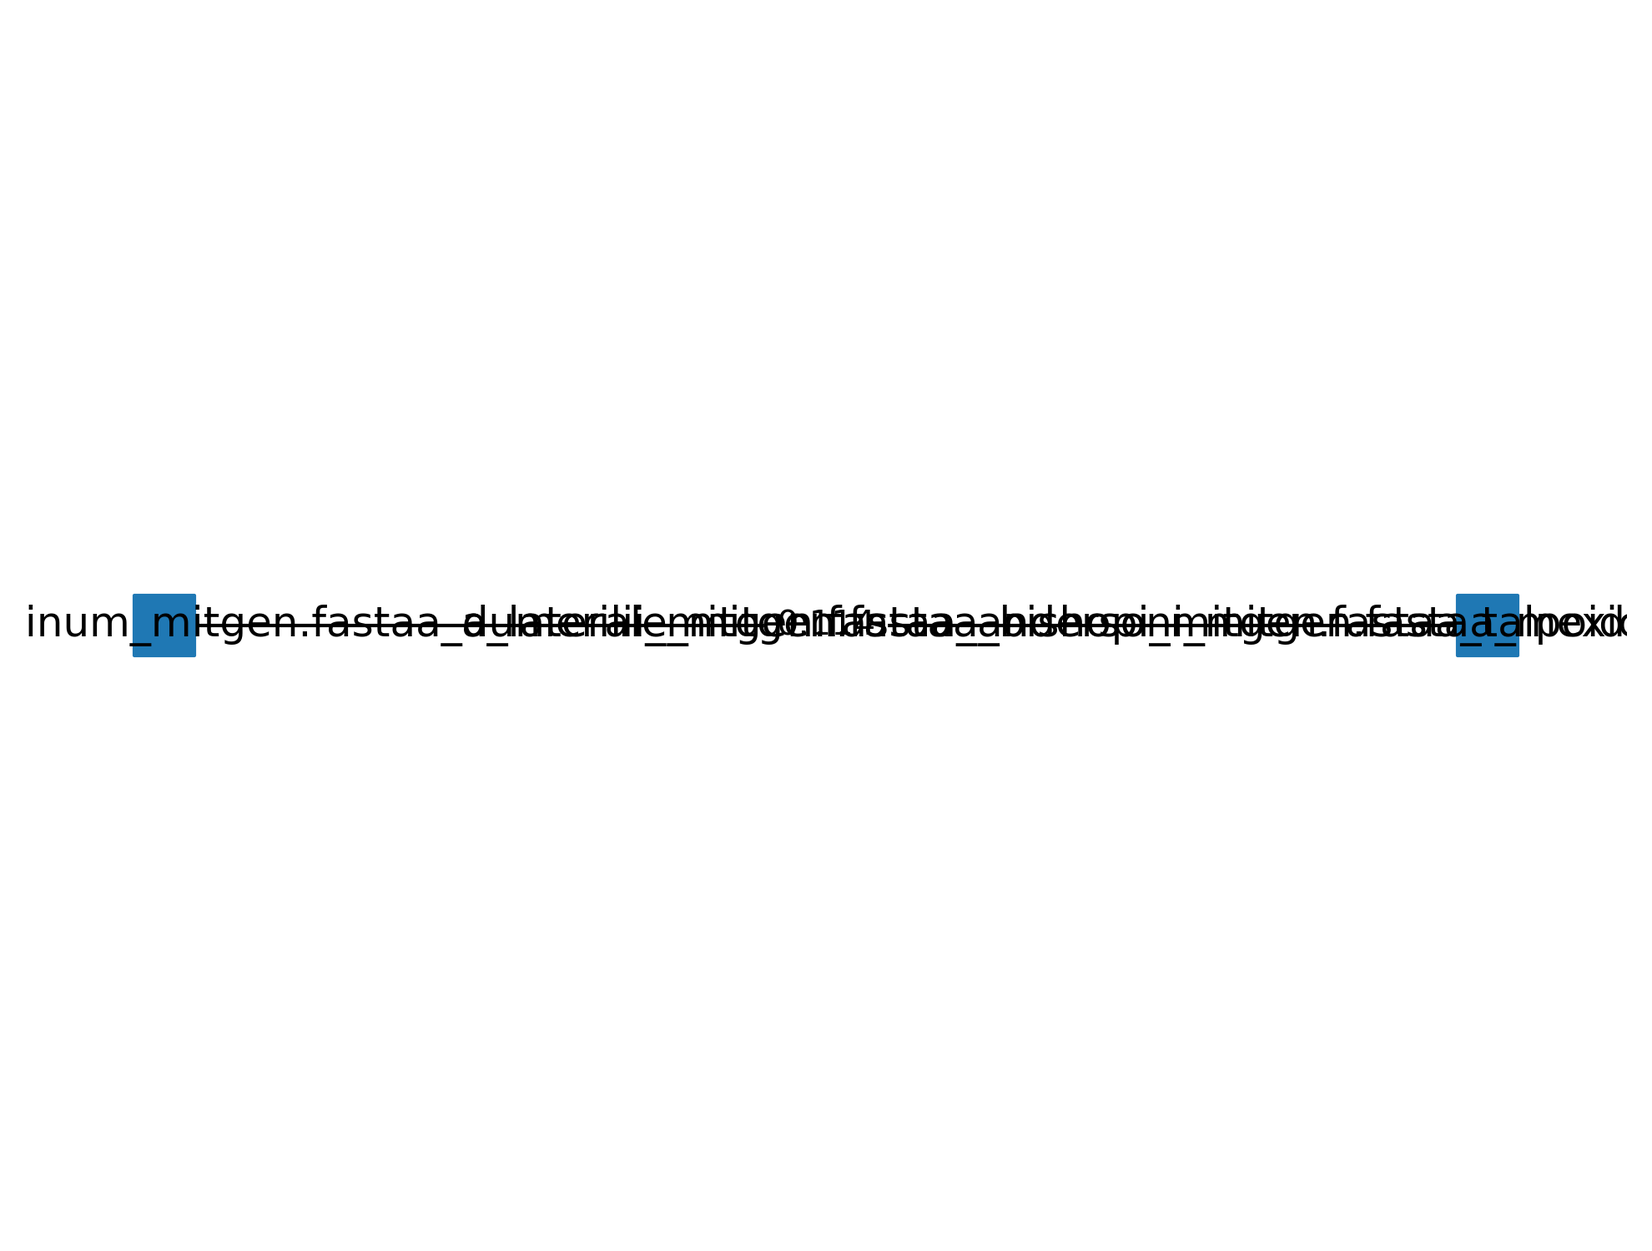
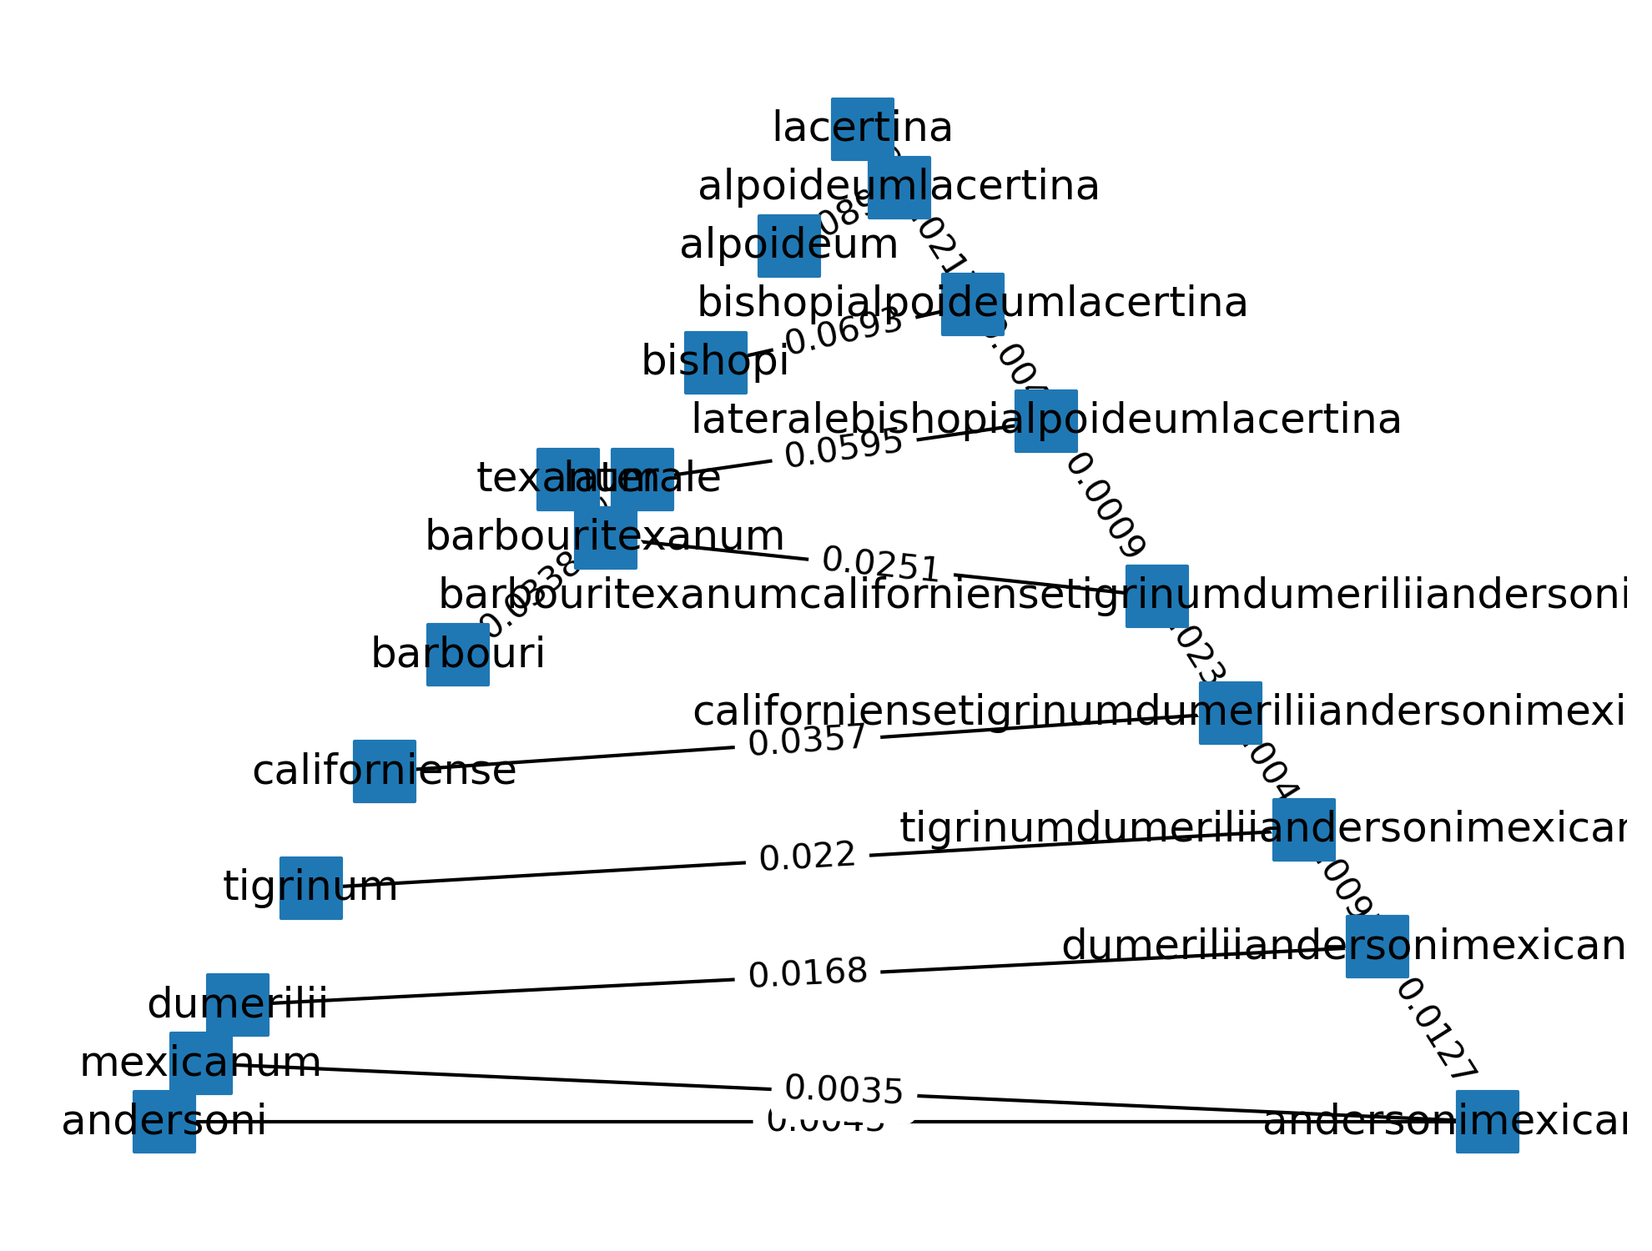
Corrección gráficas neighbor joining

diff --git a/src/graphs/p/nj/naive.tex b/src/graphs/p/nj/naive.tex
@@ -6,46 +6,46 @@
 \begin{figure}
   \begin{tikzpicture}
       \draw
-        (0.0:2) node (a_andersoni_mitgen.fasta){a_andersoni_mitgen.fasta}
-        (18.0:2) node (a_barbouri_mitgen.fasta){a_barbouri_mitgen.fasta}
-        (36.0:2) node (a_bishopi_mitgen.fasta){a_bishopi_mitgen.fasta}
-        (54.0:2) node (a_californiense_mitgen.fasta){a_californiense_mitgen.fasta}
-        (72.0:2) node (a_dumerilii_mitgen.fasta){a_dumerilii_mitgen.fasta}
-        (90.0:2) node (a_laterale_mitgen.fasta){a_laterale_mitgen.fasta}
-        (108.0:2) node (a_mexicanum_mitgen.fasta){a_mexicanum_mitgen.fasta}
-        (126.0:2) node (a_talpoideum_mitgen.fasta){a_talpoideum_mitgen.fasta}
-        (144.0:2) node (a_texanum_mitgen.fasta){a_texanum_mitgen.fasta}
-        (162.0:2) node (a_tigrinum_mitgen.fasta){a_tigrinum_mitgen.fasta}
-        (180.0:2) node (s_lacertina_mitgen.fasta){s_lacertina_mitgen.fasta}
-        (198.0:2) node (a_andersoni_mitgen.fastaa_mexicanum_mitgen.fasta){a_andersoni_mitgen.fastaa_mexicanum_mitgen.fasta}
-        (216.0:2) node (a_barbouri_mitgen.fastaa_texanum_mitgen.fasta){a_barbouri_mitgen.fastaa_texanum_mitgen.fasta}
-        (234.0:2) node (a_talpoideum_mitgen.fastas_lacertina_mitgen.fasta){a_talpoideum_mitgen.fastas_lacertina_mitgen.fasta}
-        (252.0:2) node (a_dumerilii_mitgen.fastaa_andersoni_mitgen.fastaa_mexicanum_mitgen.fasta){a_dumerilii_mitgen.fastaa_andersoni_mitgen.fastaa_mexicanum_mitgen.fasta}
-        (270.0:2) node (a_tigrinum_mitgen.fastaa_dumerilii_mitgen.fastaa_andersoni_mitgen.fastaa_mexicanum_mitgen.fasta){a_tigrinum_mitgen.fastaa_dumerilii_mitgen.fastaa_andersoni_mitgen.fastaa_mexicanum_mitgen.fasta}
-        (288.0:2) node (a_californiense_mitgen.fastaa_tigrinum_mitgen.fastaa_dumerilii_mitgen.fastaa_andersoni_mitgen.fastaa_mexicanum_mitgen.fasta){a_californiense_mitgen.fastaa_tigrinum_mitgen.fastaa_dumerilii_mitgen.fastaa_andersoni_mitgen.fastaa_mexicanum_mitgen.fasta}
-        (306.0:2) node (a_bishopi_mitgen.fastaa_talpoideum_mitgen.fastas_lacertina_mitgen.fasta){a_bishopi_mitgen.fastaa_talpoideum_mitgen.fastas_lacertina_mitgen.fasta}
-        (324.0:2) node (a_barbouri_mitgen.fastaa_texanum_mitgen.fastaa_californiense_mitgen.fastaa_tigrinum_mitgen.fastaa_dumerilii_mitgen.fastaa_andersoni_mitgen.fastaa_mexicanum_mitgen.fasta){a_barbouri_mitgen.fastaa_texanum_mitgen.fastaa_californiense_mitgen.fastaa_tigrinum_mitgen.fastaa_dumerilii_mitgen.fastaa_andersoni_mitgen.fastaa_mexicanum_mitgen.fasta}
-        (342.0:2) node (a_laterale_mitgen.fastaa_bishopi_mitgen.fastaa_talpoideum_mitgen.fastas_lacertina_mitgen.fasta){a_laterale_mitgen.fastaa_bishopi_mitgen.fastaa_talpoideum_mitgen.fastas_lacertina_mitgen.fasta};
+        (0.0:2) node (andersoni){andersoni}
+        (18.0:2) node (barbouri){barbouri}
+        (36.0:2) node (bishopi){bishopi}
+        (54.0:2) node (californiense){californiense}
+        (72.0:2) node (dumerilii){dumerilii}
+        (90.0:2) node (laterale){laterale}
+        (108.0:2) node (mexicanum){mexicanum}
+        (126.0:2) node (alpoideum){alpoideum}
+        (144.0:2) node (texanum){texanum}
+        (162.0:2) node (tigrinum){tigrinum}
+        (180.0:2) node (lacertina){lacertina}
+        (198.0:2) node (andersonimexicanum){andersonimexicanum}
+        (216.0:2) node (barbouritexanum){barbouritexanum}
+        (234.0:2) node (alpoideumlacertina){alpoideumlacertina}
+        (252.0:2) node (dumeriliiandersonimexicanum){dumeriliiandersonimexicanum}
+        (270.0:2) node (tigrinumdumeriliiandersonimexicanum){tigrinumdumeriliiandersonimexicanum}
+        (288.0:2) node (californiensetigrinumdumeriliiandersonimexicanum){californiensetigrinumdumeriliiandersonimexicanum}
+        (306.0:2) node (bishopialpoideumlacertina){bishopialpoideumlacertina}
+        (324.0:2) node (barbouritexanumcaliforniensetigrinumdumeriliiandersonimexicanum){barbouritexanumcaliforniensetigrinumdumeriliiandersonimexicanum}
+        (342.0:2) node (lateralebishopialpoideumlacertina){lateralebishopialpoideumlacertina};
       \begin{scope}[-]
-        \draw (a_andersoni_mitgen.fasta) to node[] {0.0046} (a_andersoni_mitgen.fastaa_mexicanum_mitgen.fasta);
-        \draw (a_barbouri_mitgen.fasta) to node[] {0.0325} (a_barbouri_mitgen.fastaa_texanum_mitgen.fasta);
-        \draw (a_bishopi_mitgen.fasta) to node[] {0.063} (a_bishopi_mitgen.fastaa_talpoideum_mitgen.fastas_lacertina_mitgen.fasta);
-        \draw (a_californiense_mitgen.fasta) to node[] {0.0338} (a_californiense_mitgen.fastaa_tigrinum_mitgen.fastaa_dumerilii_mitgen.fastaa_andersoni_mitgen.fastaa_mexicanum_mitgen.fasta);
-        \draw (a_dumerilii_mitgen.fasta) to node[] {0.0162} (a_dumerilii_mitgen.fastaa_andersoni_mitgen.fastaa_mexicanum_mitgen.fasta);
-        \draw (a_laterale_mitgen.fasta) to node[] {0.0552} (a_laterale_mitgen.fastaa_bishopi_mitgen.fastaa_talpoideum_mitgen.fastas_lacertina_mitgen.fasta);
-        \draw (a_mexicanum_mitgen.fasta) to node[] {0.0034} (a_andersoni_mitgen.fastaa_mexicanum_mitgen.fasta);
-        \draw (a_talpoideum_mitgen.fasta) to node[] {0.0793} (a_talpoideum_mitgen.fastas_lacertina_mitgen.fasta);
-        \draw (a_texanum_mitgen.fasta) to node[] {0.0305} (a_barbouri_mitgen.fastaa_texanum_mitgen.fasta);
-        \draw (a_tigrinum_mitgen.fasta) to node[] {0.0219} (a_tigrinum_mitgen.fastaa_dumerilii_mitgen.fastaa_andersoni_mitgen.fastaa_mexicanum_mitgen.fasta);
-        \draw (s_lacertina_mitgen.fasta) to node[] {0.1768} (a_talpoideum_mitgen.fastas_lacertina_mitgen.fasta);
-        \draw (a_andersoni_mitgen.fastaa_mexicanum_mitgen.fasta) to node[] {0.0123} (a_dumerilii_mitgen.fastaa_andersoni_mitgen.fastaa_mexicanum_mitgen.fasta);
-        \draw (a_barbouri_mitgen.fastaa_texanum_mitgen.fasta) to node[] {0.022} (a_barbouri_mitgen.fastaa_texanum_mitgen.fastaa_californiense_mitgen.fastaa_tigrinum_mitgen.fastaa_dumerilii_mitgen.fastaa_andersoni_mitgen.fastaa_mexicanum_mitgen.fasta);
-        \draw (a_talpoideum_mitgen.fastas_lacertina_mitgen.fasta) to node[] {0.018} (a_bishopi_mitgen.fastaa_talpoideum_mitgen.fastas_lacertina_mitgen.fasta);
-        \draw (a_dumerilii_mitgen.fastaa_andersoni_mitgen.fastaa_mexicanum_mitgen.fasta) to node[] {0.0091} (a_tigrinum_mitgen.fastaa_dumerilii_mitgen.fastaa_andersoni_mitgen.fastaa_mexicanum_mitgen.fasta);
-        \draw (a_tigrinum_mitgen.fastaa_dumerilii_mitgen.fastaa_andersoni_mitgen.fastaa_mexicanum_mitgen.fasta) to node[] {0.0045} (a_californiense_mitgen.fastaa_tigrinum_mitgen.fastaa_dumerilii_mitgen.fastaa_andersoni_mitgen.fastaa_mexicanum_mitgen.fasta);
-        \draw (a_californiense_mitgen.fastaa_tigrinum_mitgen.fastaa_dumerilii_mitgen.fastaa_andersoni_mitgen.fastaa_mexicanum_mitgen.fasta) to node[] {0.0208} (a_barbouri_mitgen.fastaa_texanum_mitgen.fastaa_californiense_mitgen.fastaa_tigrinum_mitgen.fastaa_dumerilii_mitgen.fastaa_andersoni_mitgen.fastaa_mexicanum_mitgen.fasta);
-        \draw (a_bishopi_mitgen.fastaa_talpoideum_mitgen.fastas_lacertina_mitgen.fasta) to node[] {0.0038} (a_laterale_mitgen.fastaa_bishopi_mitgen.fastaa_talpoideum_mitgen.fastas_lacertina_mitgen.fasta);
-        \draw (a_barbouri_mitgen.fastaa_texanum_mitgen.fastaa_californiense_mitgen.fastaa_tigrinum_mitgen.fastaa_dumerilii_mitgen.fastaa_andersoni_mitgen.fastaa_mexicanum_mitgen.fasta) to node[] {0.0008} (a_laterale_mitgen.fastaa_bishopi_mitgen.fastaa_talpoideum_mitgen.fastas_lacertina_mitgen.fasta);
+        \draw (andersoni) to node[] {0.0046} (andersonimexicanum);
+        \draw (barbouri) to node[] {0.0325} (barbouritexanum);
+        \draw (bishopi) to node[] {0.063} (bishopialpoideumlacertina);
+        \draw (californiense) to node[] {0.0338} (californiensetigrinumdumeriliiandersonimexicanum);
+        \draw (dumerilii) to node[] {0.0162} (dumeriliiandersonimexicanum);
+        \draw (laterale) to node[] {0.0552} (lateralebishopialpoideumlacertina);
+        \draw (mexicanum) to node[] {0.0034} (andersonimexicanum);
+        \draw (alpoideum) to node[] {0.0793} (alpoideumlacertina);
+        \draw (texanum) to node[] {0.0305} (barbouritexanum);
+        \draw (tigrinum) to node[] {0.0219} (tigrinumdumeriliiandersonimexicanum);
+        \draw (lacertina) to node[] {0.1768} (alpoideumlacertina);
+        \draw (andersonimexicanum) to node[] {0.0123} (dumeriliiandersonimexicanum);
+        \draw (barbouritexanum) to node[] {0.022} (barbouritexanumcaliforniensetigrinumdumeriliiandersonimexicanum);
+        \draw (alpoideumlacertina) to node[] {0.018} (bishopialpoideumlacertina);
+        \draw (dumeriliiandersonimexicanum) to node[] {0.0091} (tigrinumdumeriliiandersonimexicanum);
+        \draw (tigrinumdumeriliiandersonimexicanum) to node[] {0.0045} (californiensetigrinumdumeriliiandersonimexicanum);
+        \draw (californiensetigrinumdumeriliiandersonimexicanum) to node[] {0.0208} (barbouritexanumcaliforniensetigrinumdumeriliiandersonimexicanum);
+        \draw (bishopialpoideumlacertina) to node[] {0.0038} (lateralebishopialpoideumlacertina);
+        \draw (barbouritexanumcaliforniensetigrinumdumeriliiandersonimexicanum) to node[] {0.0008} (lateralebishopialpoideumlacertina);
       \end{scope}
     \end{tikzpicture}
   \caption{{nombre}}

diff --git a/src/graphs/p/nj/tamura.tex b/src/graphs/p/nj/tamura.tex
@@ -6,10 +6,46 @@
 \begin{figure}
   \begin{tikzpicture}
       \draw
-        (0.0:2) node (a_barbouri_mitgen.fastaa_texanum_mitgen.fastaa_californiense_mitgen.fastaa_tigrinum_mitgen.fastaa_dumerilii_mitgen.fastaa_andersoni_mitgen.fastaa_mexicanum_mitgen.fasta){a_barbouri_mitgen.fastaa_texanum_mitgen.fastaa_californiense_mitgen.fastaa_tigrinum_mitgen.fastaa_dumerilii_mitgen.fastaa_andersoni_mitgen.fastaa_mexicanum_mitgen.fasta}
-        (180.0:2) node (a_laterale_mitgen.fastaa_bishopi_mitgen.fastaa_talpoideum_mitgen.fastas_lacertina_mitgen.fasta){a_laterale_mitgen.fastaa_bishopi_mitgen.fastaa_talpoideum_mitgen.fastas_lacertina_mitgen.fasta};
+        (0.0:2) node (andersoni){andersoni}
+        (18.0:2) node (barbouri){barbouri}
+        (36.0:2) node (bishopi){bishopi}
+        (54.0:2) node (californiense){californiense}
+        (72.0:2) node (dumerilii){dumerilii}
+        (90.0:2) node (laterale){laterale}
+        (108.0:2) node (mexicanum){mexicanum}
+        (126.0:2) node (alpoideum){alpoideum}
+        (144.0:2) node (texanum){texanum}
+        (162.0:2) node (tigrinum){tigrinum}
+        (180.0:2) node (lacertina){lacertina}
+        (198.0:2) node (andersonimexicanum){andersonimexicanum}
+        (216.0:2) node (barbouritexanum){barbouritexanum}
+        (234.0:2) node (alpoideumlacertina){alpoideumlacertina}
+        (252.0:2) node (dumeriliiandersonimexicanum){dumeriliiandersonimexicanum}
+        (270.0:2) node (tigrinumdumeriliiandersonimexicanum){tigrinumdumeriliiandersonimexicanum}
+        (288.0:2) node (californiensetigrinumdumeriliiandersonimexicanum){californiensetigrinumdumeriliiandersonimexicanum}
+        (306.0:2) node (bishopialpoideumlacertina){bishopialpoideumlacertina}
+        (324.0:2) node (lateralebishopialpoideumlacertina){lateralebishopialpoideumlacertina}
+        (342.0:2) node (barbouritexanumcaliforniensetigrinumdumeriliiandersonimexicanum){barbouritexanumcaliforniensetigrinumdumeriliiandersonimexicanum};
       \begin{scope}[-]
-        \draw (a_barbouri_mitgen.fastaa_texanum_mitgen.fastaa_californiense_mitgen.fastaa_tigrinum_mitgen.fastaa_dumerilii_mitgen.fastaa_andersoni_mitgen.fastaa_mexicanum_mitgen.fasta) to node[] {0.099} (a_laterale_mitgen.fastaa_bishopi_mitgen.fastaa_talpoideum_mitgen.fastas_lacertina_mitgen.fasta);
+        \draw (andersoni) to node[] {0.0042} (andersonimexicanum);
+        \draw (barbouri) to node[] {0.0323} (barbouritexanum);
+        \draw (bishopi) to node[] {0.0578} (bishopialpoideumlacertina);
+        \draw (californiense) to node[] {0.0323} (californiensetigrinumdumeriliiandersonimexicanum);
+        \draw (dumerilii) to node[] {0.0161} (dumeriliiandersonimexicanum);
+        \draw (laterale) to node[] {0.0514} (lateralebishopialpoideumlacertina);
+        \draw (mexicanum) to node[] {0.0028} (andersonimexicanum);
+        \draw (alpoideum) to node[] {0.0648} (alpoideumlacertina);
+        \draw (texanum) to node[] {0.0297} (barbouritexanum);
+        \draw (tigrinum) to node[] {0.0207} (tigrinumdumeriliiandersonimexicanum);
+        \draw (lacertina) to node[] {0.1142} (alpoideumlacertina);
+        \draw (andersonimexicanum) to node[] {0.0119} (dumeriliiandersonimexicanum);
+        \draw (barbouritexanum) to node[] {0.0189} (barbouritexanumcaliforniensetigrinumdumeriliiandersonimexicanum);
+        \draw (alpoideumlacertina) to node[] {0.0127} (bishopialpoideumlacertina);
+        \draw (dumeriliiandersonimexicanum) to node[] {0.0086} (tigrinumdumeriliiandersonimexicanum);
+        \draw (tigrinumdumeriliiandersonimexicanum) to node[] {0.0045} (californiensetigrinumdumeriliiandersonimexicanum);
+        \draw (californiensetigrinumdumeriliiandersonimexicanum) to node[] {0.0179} (barbouritexanumcaliforniensetigrinumdumeriliiandersonimexicanum);
+        \draw (bishopialpoideumlacertina) to node[] {0.0029} (lateralebishopialpoideumlacertina);
+        \draw (lateralebishopialpoideumlacertina) to node[] {0.0018} (barbouritexanumcaliforniensetigrinumdumeriliiandersonimexicanum);
       \end{scope}
     \end{tikzpicture}
   \caption{{nombre}}

diff --git a/src/graphs/p/nj/mk.tex b/src/graphs/p/nj/mk.tex
@@ -6,10 +6,46 @@
 \begin{figure}
   \begin{tikzpicture}
       \draw
-        (0.0:2) node (a_barbouri_mitgen.fastaa_texanum_mitgen.fastaa_californiense_mitgen.fastaa_tigrinum_mitgen.fastaa_dumerilii_mitgen.fastaa_andersoni_mitgen.fastaa_mexicanum_mitgen.fasta){a_barbouri_mitgen.fastaa_texanum_mitgen.fastaa_californiense_mitgen.fastaa_tigrinum_mitgen.fastaa_dumerilii_mitgen.fastaa_andersoni_mitgen.fastaa_mexicanum_mitgen.fasta}
-        (180.0:2) node (a_laterale_mitgen.fastaa_bishopi_mitgen.fastaa_talpoideum_mitgen.fastas_lacertina_mitgen.fasta){a_laterale_mitgen.fastaa_bishopi_mitgen.fastaa_talpoideum_mitgen.fastas_lacertina_mitgen.fasta};
+        (0.0:2) node (andersoni){andersoni}
+        (18.0:2) node (barbouri){barbouri}
+        (36.0:2) node (bishopi){bishopi}
+        (54.0:2) node (californiense){californiense}
+        (72.0:2) node (dumerilii){dumerilii}
+        (90.0:2) node (laterale){laterale}
+        (108.0:2) node (mexicanum){mexicanum}
+        (126.0:2) node (alpoideum){alpoideum}
+        (144.0:2) node (texanum){texanum}
+        (162.0:2) node (tigrinum){tigrinum}
+        (180.0:2) node (lacertina){lacertina}
+        (198.0:2) node (andersonimexicanum){andersonimexicanum}
+        (216.0:2) node (barbouritexanum){barbouritexanum}
+        (234.0:2) node (alpoideumlacertina){alpoideumlacertina}
+        (252.0:2) node (dumeriliiandersonimexicanum){dumeriliiandersonimexicanum}
+        (270.0:2) node (tigrinumdumeriliiandersonimexicanum){tigrinumdumeriliiandersonimexicanum}
+        (288.0:2) node (californiensetigrinumdumeriliiandersonimexicanum){californiensetigrinumdumeriliiandersonimexicanum}
+        (306.0:2) node (bishopialpoideumlacertina){bishopialpoideumlacertina}
+        (324.0:2) node (lateralebishopialpoideumlacertina){lateralebishopialpoideumlacertina}
+        (342.0:2) node (barbouritexanumcaliforniensetigrinumdumeriliiandersonimexicanum){barbouritexanumcaliforniensetigrinumdumeriliiandersonimexicanum};
       \begin{scope}[-]
-        \draw (a_barbouri_mitgen.fastaa_texanum_mitgen.fastaa_californiense_mitgen.fastaa_tigrinum_mitgen.fastaa_dumerilii_mitgen.fastaa_andersoni_mitgen.fastaa_mexicanum_mitgen.fasta) to node[] {0.098} (a_laterale_mitgen.fastaa_bishopi_mitgen.fastaa_talpoideum_mitgen.fastas_lacertina_mitgen.fasta);
+        \draw (andersoni) to node[] {0.0041} (andersonimexicanum);
+        \draw (barbouri) to node[] {0.0319} (barbouritexanum);
+        \draw (bishopi) to node[] {0.0574} (bishopialpoideumlacertina);
+        \draw (californiense) to node[] {0.0322} (californiensetigrinumdumeriliiandersonimexicanum);
+        \draw (dumerilii) to node[] {0.0162} (dumeriliiandersonimexicanum);
+        \draw (laterale) to node[] {0.051} (lateralebishopialpoideumlacertina);
+        \draw (mexicanum) to node[] {0.0029} (andersonimexicanum);
+        \draw (alpoideum) to node[] {0.0645} (alpoideumlacertina);
+        \draw (texanum) to node[] {0.0291} (barbouritexanum);
+        \draw (tigrinum) to node[] {0.0207} (tigrinumdumeriliiandersonimexicanum);
+        \draw (lacertina) to node[] {0.1135} (alpoideumlacertina);
+        \draw (andersonimexicanum) to node[] {0.0118} (dumeriliiandersonimexicanum);
+        \draw (barbouritexanum) to node[] {0.0194} (barbouritexanumcaliforniensetigrinumdumeriliiandersonimexicanum);
+        \draw (alpoideumlacertina) to node[] {0.0126} (bishopialpoideumlacertina);
+        \draw (dumeriliiandersonimexicanum) to node[] {0.0085} (tigrinumdumeriliiandersonimexicanum);
+        \draw (tigrinumdumeriliiandersonimexicanum) to node[] {0.0045} (californiensetigrinumdumeriliiandersonimexicanum);
+        \draw (californiensetigrinumdumeriliiandersonimexicanum) to node[] {0.0177} (barbouritexanumcaliforniensetigrinumdumeriliiandersonimexicanum);
+        \draw (bishopialpoideumlacertina) to node[] {0.0028} (lateralebishopialpoideumlacertina);
+        \draw (lateralebishopialpoideumlacertina) to node[] {0.0017} (barbouritexanumcaliforniensetigrinumdumeriliiandersonimexicanum);
       \end{scope}
     \end{tikzpicture}
   \caption{{nombre}}

diff --git a/src/graphs/p/nj/jk.tex b/src/graphs/p/nj/jk.tex
@@ -6,10 +6,46 @@
 \begin{figure}
   \begin{tikzpicture}
       \draw
-        (0.0:2) node (a_barbouri_mitgen.fastaa_texanum_mitgen.fastaa_californiense_mitgen.fastaa_tigrinum_mitgen.fastaa_dumerilii_mitgen.fastaa_andersoni_mitgen.fastaa_mexicanum_mitgen.fasta){a_barbouri_mitgen.fastaa_texanum_mitgen.fastaa_californiense_mitgen.fastaa_tigrinum_mitgen.fastaa_dumerilii_mitgen.fastaa_andersoni_mitgen.fastaa_mexicanum_mitgen.fasta}
-        (180.0:2) node (a_laterale_mitgen.fastaa_bishopi_mitgen.fastaa_talpoideum_mitgen.fastas_lacertina_mitgen.fasta){a_laterale_mitgen.fastaa_bishopi_mitgen.fastaa_talpoideum_mitgen.fastas_lacertina_mitgen.fasta};
+        (0.0:2) node (andersoni){andersoni}
+        (18.0:2) node (barbouri){barbouri}
+        (36.0:2) node (bishopi){bishopi}
+        (54.0:2) node (californiense){californiense}
+        (72.0:2) node (dumerilii){dumerilii}
+        (90.0:2) node (laterale){laterale}
+        (108.0:2) node (mexicanum){mexicanum}
+        (126.0:2) node (alpoideum){alpoideum}
+        (144.0:2) node (texanum){texanum}
+        (162.0:2) node (tigrinum){tigrinum}
+        (180.0:2) node (lacertina){lacertina}
+        (198.0:2) node (alpoideumlacertina){alpoideumlacertina}
+        (216.0:2) node (barbouritexanum){barbouritexanum}
+        (234.0:2) node (andersonimexicanum){andersonimexicanum}
+        (252.0:2) node (dumeriliiandersonimexicanum){dumeriliiandersonimexicanum}
+        (270.0:2) node (tigrinumdumeriliiandersonimexicanum){tigrinumdumeriliiandersonimexicanum}
+        (288.0:2) node (californiensetigrinumdumeriliiandersonimexicanum){californiensetigrinumdumeriliiandersonimexicanum}
+        (306.0:2) node (bishopialpoideumlacertina){bishopialpoideumlacertina}
+        (324.0:2) node (lateralebishopialpoideumlacertina){lateralebishopialpoideumlacertina}
+        (342.0:2) node (barbouritexanumcaliforniensetigrinumdumeriliiandersonimexicanum){barbouritexanumcaliforniensetigrinumdumeriliiandersonimexicanum};
       \begin{scope}[-]
-        \draw (a_barbouri_mitgen.fastaa_texanum_mitgen.fastaa_californiense_mitgen.fastaa_tigrinum_mitgen.fastaa_dumerilii_mitgen.fastaa_andersoni_mitgen.fastaa_mexicanum_mitgen.fasta) to node[] {0.114} (a_laterale_mitgen.fastaa_bishopi_mitgen.fastaa_talpoideum_mitgen.fastas_lacertina_mitgen.fasta);
+        \draw (andersoni) to node[] {0.0045} (andersonimexicanum);
+        \draw (barbouri) to node[] {0.0338} (barbouritexanum);
+        \draw (bishopi) to node[] {0.0693} (bishopialpoideumlacertina);
+        \draw (californiense) to node[] {0.0357} (californiensetigrinumdumeriliiandersonimexicanum);
+        \draw (dumerilii) to node[] {0.0168} (dumeriliiandersonimexicanum);
+        \draw (laterale) to node[] {0.0595} (lateralebishopialpoideumlacertina);
+        \draw (mexicanum) to node[] {0.0035} (andersonimexicanum);
+        \draw (alpoideum) to node[] {0.0899} (alpoideumlacertina);
+        \draw (texanum) to node[] {0.0312} (barbouritexanum);
+        \draw (tigrinum) to node[] {0.022} (tigrinumdumeriliiandersonimexicanum);
+        \draw (lacertina) to node[] {0.2241} (alpoideumlacertina);
+        \draw (alpoideumlacertina) to node[] {0.0217} (bishopialpoideumlacertina);
+        \draw (barbouritexanum) to node[] {0.0251} (barbouritexanumcaliforniensetigrinumdumeriliiandersonimexicanum);
+        \draw (andersonimexicanum) to node[] {0.0127} (dumeriliiandersonimexicanum);
+        \draw (dumeriliiandersonimexicanum) to node[] {0.0095} (tigrinumdumeriliiandersonimexicanum);
+        \draw (tigrinumdumeriliiandersonimexicanum) to node[] {0.0046} (californiensetigrinumdumeriliiandersonimexicanum);
+        \draw (californiensetigrinumdumeriliiandersonimexicanum) to node[] {0.0236} (barbouritexanumcaliforniensetigrinumdumeriliiandersonimexicanum);
+        \draw (bishopialpoideumlacertina) to node[] {0.004} (lateralebishopialpoideumlacertina);
+        \draw (lateralebishopialpoideumlacertina) to node[] {0.0009} (barbouritexanumcaliforniensetigrinumdumeriliiandersonimexicanum);
       \end{scope}
     \end{tikzpicture}
   \caption{{nombre}}
